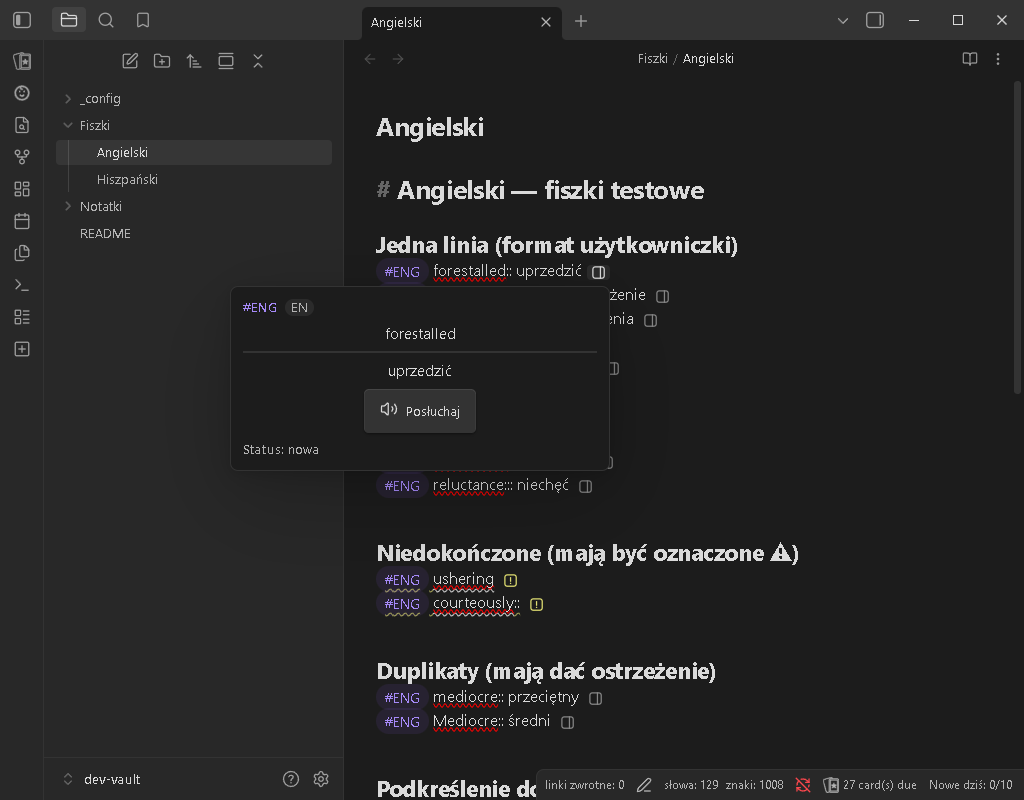
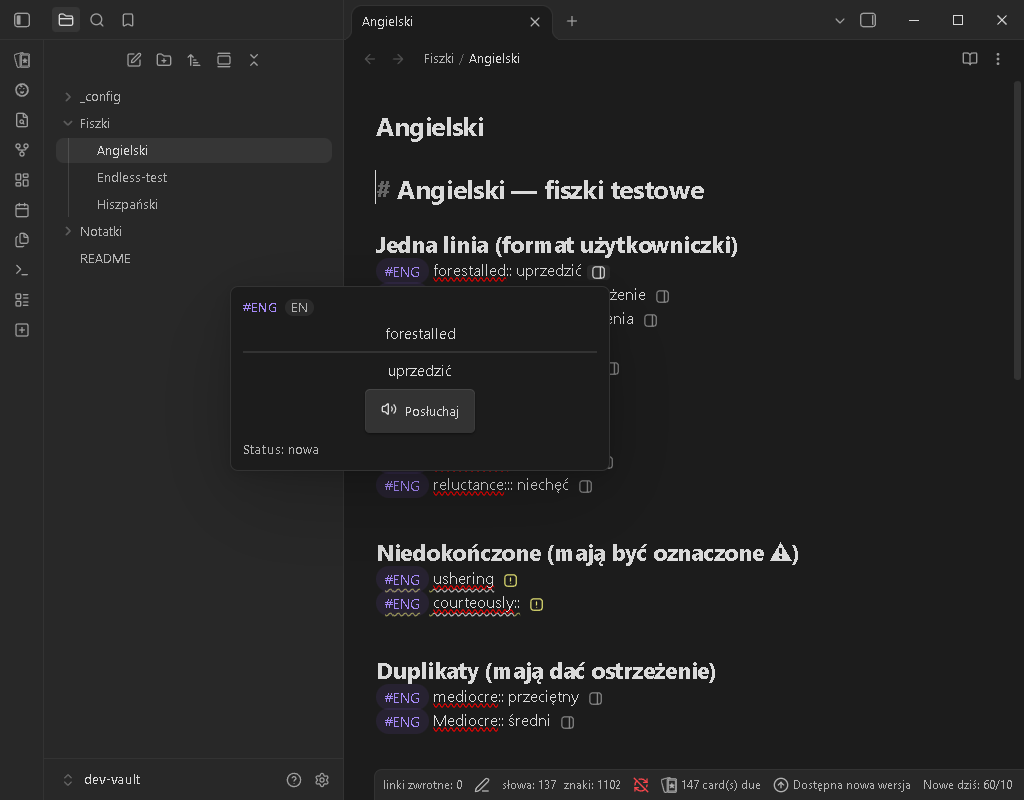
Endless 2: poprawki po testach w Obsidianie, zrzuty, docs/wydania/0.9.4.md
- Klepsydra: po przewróceniu rysowana prosto (wcześniej przez chwilę
  obrócona — piasek na dole); w panelu bocznym wynik pod podstawą.
- Komunikat Speed Streak: „rekord serii Speed Streak w Endless” (nie myli
  się z wynikiem Endless).
- Osiągnięty cel dzienny: czytelny zielony w jasnym motywie (2,61 → ≥ 4,5:1).
- docs/screenshots: odświeżone zrzuty + Endless (klepsydra, telefon), README.
- docs/wydania/0.9.4.md: podsumowanie, log 300 ocen, pułapki.

diff --git a/src/speed-streak/visuals/hourglass-visual.ts b/src/speed-streak/visuals/hourglass-visual.ts
@@ -116,9 +116,9 @@ export class HourglassVisual extends CanvasVisual {
             gx = Math.min(w * 0.3, gh * 0.3 + 2);
             gy = h / 2;
         } else {
-            gh = Math.min(h * 0.62, w * 0.9);
+            gh = Math.min(h * 0.58, w * 0.9);
             gx = w / 2;
-            gy = h * 0.38;
+            gy = h * 0.34;
         }
         const gw = gh * 0.6;
 
@@ -135,9 +135,10 @@ export class HourglassVisual extends CanvasVisual {
                 ctx.fillText(`★×${fill.hundreds}`, (left + w) / 2, h * 0.8);
             }
         } else {
-            const top = gy + gh / 2 + h * 0.02;
-            this.drawScore(ctx, w / 2, top + h * 0.09, w * 0.8, h * 0.16);
-            this.drawHundreds(ctx, w / 2, top + h * 0.22, Math.min(w, h) * 0.06, fill.hundreds);
+            // below the bottom cap: the score, then the stars of the hundreds
+            const top = gy + gh / 2 + Math.max(2, gh * 0.05);
+            this.drawScore(ctx, w / 2, top + h * 0.1, w * 0.8, h * 0.15);
+            this.drawHundreds(ctx, w / 2, top + h * 0.21, Math.min(w, h) * 0.05, fill.hundreds);
         }
     }
 
@@ -171,9 +172,13 @@ export class HourglassVisual extends CanvasVisual {
         let shownGrains = grains;
         if (cut !== null) {
             // 0–0.2 full bulb glows, 0.2–0.7 the hourglass turns over, then it settles
+            // (turned by 180° the full bottom bulb is the full top bulb of the new hundred,
+            // so once the turn is done the hourglass is drawn upright again)
             const turn = easeInOut(Math.max(0, Math.min(1, (cut - 0.2) / 0.5)));
-            ctx.rotate(Math.PI * turn);
-            shownGrains = turn < 1 ? GRAINS_PER_HOURGLASS : grains;
+            if (turn < 1) {
+                ctx.rotate(Math.PI * turn);
+                shownGrains = GRAINS_PER_HOURGLASS;
+            }
         }
         if (err !== null) shownGrains = Math.round(this.grainsBeforeError * (1 - easeInOut(err)));
         ctx.translate(-cx, -cy);

diff --git a/src/speed-streak/speed-streak-i18n.ts b/src/speed-streak/speed-streak-i18n.ts
@@ -134,7 +134,7 @@ const EN = {
     ENDLESS_RECORD: "Endless all-time best",
     ENDLESS_BEST_5: "Endless best 5",
     ENDLESS_SESSION: "Session: ${n}",
-    ENDLESS_SUMMARY_RECORD: "🏆 New Endless record: ${n} in a row!",
+    ENDLESS_SUMMARY_RECORD: "🏆 New Speed Streak streak record in Endless: ${n}!",
     PURE_BADGE: "Pure",
     BREAKS_BADGE: "Breaks",
     NEXT_BOOST: "Next Boost ${n} / ${m}",
@@ -341,7 +341,7 @@ const PL: Record<Keys, string> = {
     ENDLESS_RECORD: "Rekord Endless",
     ENDLESS_BEST_5: "Najlepsze 5 w Endless",
     ENDLESS_SESSION: "Sesja: ${n}",
-    ENDLESS_SUMMARY_RECORD: "🏆 Nowy rekord Endless: ${n} z rzędu!",
+    ENDLESS_SUMMARY_RECORD: "🏆 Nowy rekord serii Speed Streak w Endless: ${n}!",
     PURE_BADGE: "Czysta",
     BREAKS_BADGE: "Przerwy",
     NEXT_BOOST: "Następny Boost ${n} / ${m}",

diff --git a/styles.css b/styles.css
@@ -228,7 +228,7 @@ button.sr-ca-notice-btn {
   font-size: var(--font-ui-small);
 }
 .sr-goal.is-reached {
-  --sr-goal-color: var(--color-green);
+  --sr-goal-color: var(--usr-green-fg, var(--color-green));
 }
 .sr-goal-head {
   display: flex;

diff --git a/src/card-authoring/daily-goal.css b/src/card-authoring/daily-goal.css
@@ -11,7 +11,8 @@
 }
 
 .sr-goal.is-reached {
-    --sr-goal-color: var(--color-green);
+    /* readable green text in both themes (≥ 4.5:1) */
+    --sr-goal-color: var(--usr-green-fg, var(--color-green));
 }
 
 .sr-goal-head {

diff --git a/docs/wydania/0.9.4.md b/docs/wydania/0.9.4.md
@@ -1,0 +1,32 @@
+# Wydanie 0.9.4 — Endless 2 (podsumowanie dla przyszłych sesji)
+
+Poprzednie: [0.9.3](0.9.3.md). Zlecenie: `zadania/endless-2/ZADANIE.md`. Zmiany widoczne dla użytkowniczki: `CHANGELOG-UPGRADED.md`, sekcja `## 0.9.4`.
+
+## Co weszło
+
+- **„Błąd · zeruje wynik”** zamiast „Ponownie” tylko w Endless (`response-section.tsx`, teksty w `endless-i18n.ts`). Reset z paska = „Błąd” (`responseToEndlessRating`).
+- **Wynik Endless i rekordy** (`src/endless/endless-records.ts`, czysta logika + testy; zapis w `data.endless.records` przez `endless-store.ts`, `normalizeEndlessData` dla starego `data.json`).
+    - Wynik liczy `EndlessReviewSequencer` (`applyRating`); koniec passy → `info.onRunEnded` → `storeEndlessRun`.
+    - Koniec sesji: `ContentManager._finishEndlessSession` (przy powrocie do listy i przy zamknięciu okna) — ostatnia passa, rekord sesji, podsumowanie w pasku Endless (`deck-list.tsx`, `EndlessSummary`).
+    - Plakietka nad kartą: `DeckInfoComponent.setEndlessScore` („Wynik 37 🏆”).
+    - Okno rekordów: `endless-records-modal.ts`.
+- **Rozsuwanie kart jednej fiszki** w `EndlessQueue` (`groupOf` = `card.question`): `minGroupGap = max(2, ceil(5 % puli))`. Wybór następnej karty w chwili pokazania: pierwsza spełniająca oba warunki (`notBefore` po „Błąd”/„Trudne” i odstęp grupy); gdy brak — nowa runda wcześniej (tylko jeśli coś daje), inaczej `bestEffort` (najpierw odstęp grupy, potem czekanie). Nigdy nie blokuje.
+    - Sprawdzone w dev-vault: 300 mieszanych ocen na 120 kartach (`Fiszki/Endless-test.md`) — najmniejszy odstęp 6 przy wymaganym 6. Log: `Claude outputs/zrzuty/endless-2/log-300-ocen.json`.
+- **Ostrzeżenie < 100 kart**: `ENDLESS_MIN_CARDS` w `endless-settings.ts`, `needsFewCardsWarning`, okno `few-cards-modal.ts`, `hideFewCardsWarning` (przełącznik w Ustawieniach → Speed Streak → Tryb Endless).
+- **Klepsydra** (`visuals/hourglass-visual.ts`, logika w `hourglass-logic.ts` + testy). `VisualState.endlessScore` (null poza Endless); kontroler: `setEndlessScore`, `activeVisualId` (ustawienie `endlessVisualStyle`, domyślnie `hourglass`, „same” = styl powtórki). Nagrody za setki — jedno miejsce `rewardFor()` (opis na górze pliku).
+- Speed Streak: „Sesja: N” (jedna linia na telefonie), komunikat „rekord serii Speed Streak w Endless” (odróżnia od wyniku Endless).
+- Przy okazji: osiągnięty cel dzienny w jasnym motywie był za blady (2,61:1) → `--usr-green-fg`.
+
+## Zrzuty
+
+- Endless 2 (komputer ciemny/jasny, telefon ciemny/jasny, iPad, szerokie okno z panelem bocznym): `Claude outputs/zrzuty/endless-2/` — wybór talii z rekordem, ostrzeżenie, karta z „Wynik”, przyciski z „Błąd”, klepsydra 0/37/99, przewracanie przy 100 (klatki 7a–7c na komputerze), po setce, „Błąd”, podsumowanie, okno rekordów.
+- Wydanie: `node scripts/release-screenshots.mjs 0.9.4` — 37 zrzutów, 0 błędów w konsoli; poza znanymi rzeczami Obsidiana (kolor tagu `#ENG`, przycisk nagłówka okienka) brak uwag.
+- `docs/screenshots/`: odświeżone deck-list, review, editor, phone-review; nowe endless-hourglass, endless-phone (README).
+- `git status dev-vault/Fiszki` czysty po wszystkich sesjach (poza dodanym `Endless-test.md`).
+
+## Pułapki środowiska
+
+- Animacje w zrzutach: `shot()` w skryptach czeka 800 ms, więc klatki animacji trzeba łapać bezpośrednio `Page.captureScreenshot`; okno wysunąć `Page.bringToFront` + `Emulation.setFocusEmulationEnabled`.
+- Ustawienia zmieniane przez skrypt testowy (np. `speedStreak.layout = "side-right"`) **trzeba przywrócić** — inaczej kolejne zrzuty (np. telefon) wyglądają na zepsute.
+- `Emulation.setDeviceMetricsOverride` z jednej sesji CDP potrafi zostać po jej zamknięciu: przed zrzutami wydania sprawdzić `innerWidth` okna (powinno być 1024).
+- Oceny w testach liczą się do kalendarza powtórek dev-vault (tysiące kart „dziś”) — to tylko dane testowe.

diff --git a/README.md b/README.md
@@ -25,6 +25,10 @@ Each add-on is a **built-in plugin** that can be turned on or off in the **Optio
 | -------------------------------------------------------- | -------------------------------------------- | ------------------------------------------------------- |
 | ![Review with Speed Streak](docs/screenshots/review.png) | ![Card preview](docs/screenshots/editor.png) | ![Review on a phone](docs/screenshots/phone-review.png) |
 
+| Endless with the Hourglass                                            | Endless on a phone                                        |
+| --------------------------------------------------------------------- | --------------------------------------------------------- |
+| ![Endless with the Hourglass](docs/screenshots/endless-hourglass.png) | ![Endless on a phone](docs/screenshots/endless-phone.png) |
+
 Full description of the add-ons (in Polish): [SPEED-STREAK-README.md](SPEED-STREAK-README.md). Changes per version: [CHANGELOG-UPGRADED.md](CHANGELOG-UPGRADED.md).
 
 For everything that comes from the original plugin — card formats, decks, cloze cards, notes review, algorithms — see the [original documentation](https://stephenmwangi.com/obsidian-spaced-repetition/).
